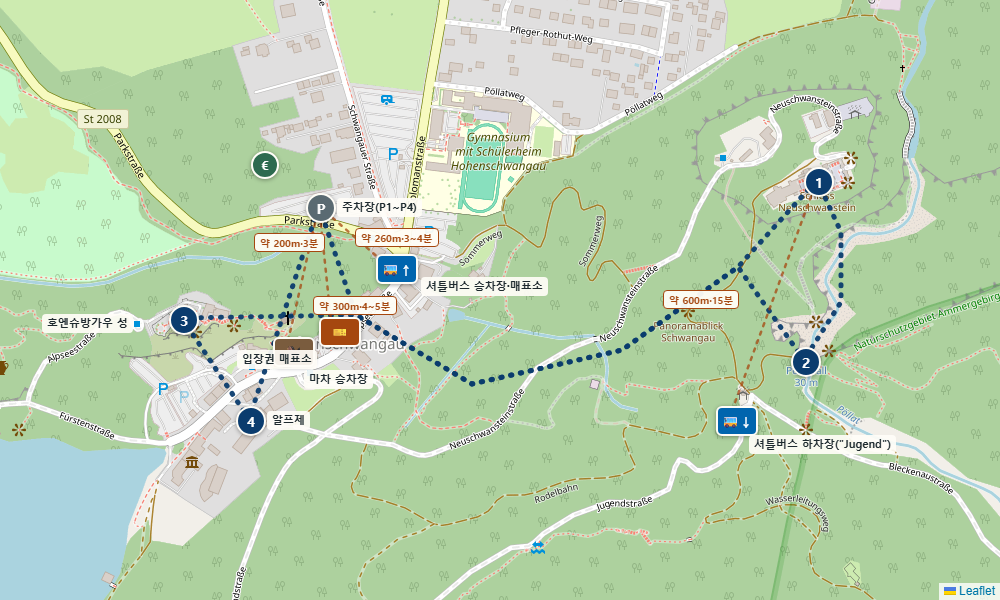
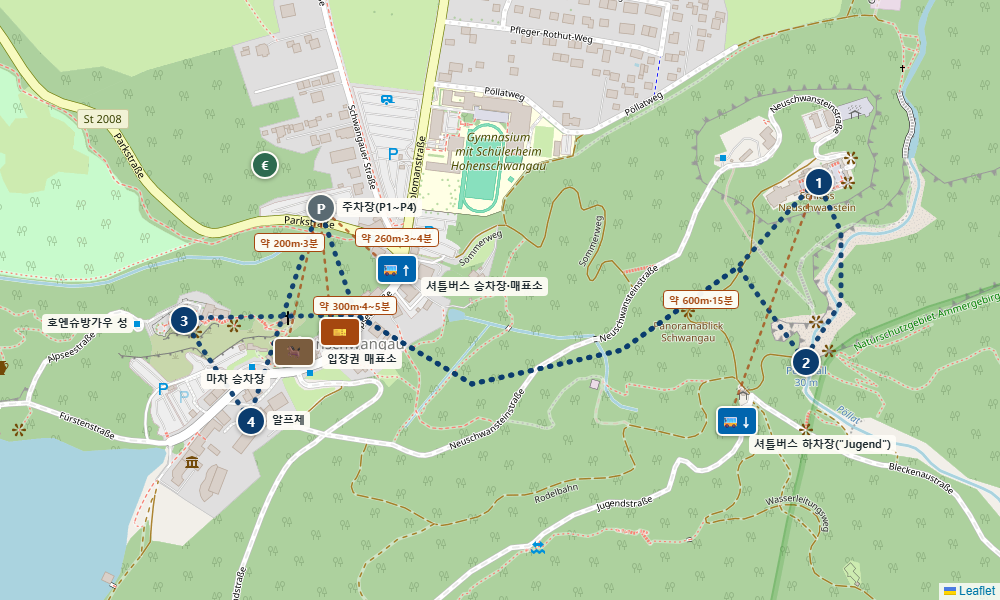
노이슈반슈타인 라벨 재배치 수정, 아스바흐 토요일 투어 하이라이트
- 입장권 매표소·마차 승차장 라벨이 서로 반대 핀 쪽으로 넘어가 있던 것을 수정(각자 자기 박스 바로 아래로)
- 아스바흐 방문자센터 매주 토요일 10시 투어를 방문일(9/26 토)과 일치하는 일정으로 확인, 하이라이트 추가

Changed region(s): [[0.186, 0.57, 0.403, 0.66]]

diff --git a/germany-roadtrip-planner.html b/germany-roadtrip-planner.html
@@ -2358,7 +2358,7 @@ document.addEventListener('DOMContentLoaded', function(){
       <a class="walk-map-link" href="https://www.google.com/maps/dir/?api=1&travelmode=walking&origin=47.5543,10.7360&destination=47.5550,10.7494&waypoints=47.5576,10.7497" target="_blank" rel="noopener">📍 Google 지도로 도보 코스 보기(링크는 편도만 표시, 왕복은 같은 길로 되짚기) · 총 약 4.7km · 도보 약 1시간 31분(오르막 40분+12분, 내리막 약 35분+알프제 4분)</a>
       <div class="route-snapshot">
         <div class="route-snapshot-media">
-          <img src="images/routes/neuschwanstein.png?v=15" alt="노이슈반슈타인 성 도보 코스 지도 스냅샷 — 입장권 매표소·셔틀버스 승하차장·마차 승차장·호엔슈방가우 성·알프제 위치 표시" loading="lazy" width="1000" height="600">
+          <img src="images/routes/neuschwanstein.png?v=16" alt="노이슈반슈타인 성 도보 코스 지도 스냅샷 — 입장권 매표소·셔틀버스 승하차장·마차 승차장·호엔슈방가우 성·알프제 위치 표시" loading="lazy" width="1000" height="600">
         </div>
         <ol class="route-steps">
         <li class="rs-p"><span class="rs-name">주차장(P1~P4)</span></li>
@@ -4427,7 +4427,7 @@ document.addEventListener('DOMContentLoaded', function(){
         <img src="https://commons.wikimedia.org/wiki/Special:FilePath/Asbach_Uralt1713.JPG?width=500" alt="아스바흐 브랜디 병(제품 사진, 방문자센터 실사진은 아님)" loading="lazy">
         <div class="landmark-body">
         <h3>[선택] 아스바흐 방문자센터(Asbach Besucherzentrum)</h3>
-        <p class="landmark-desc">독일 대표 브랜디 브랜드 아스바흐의 증류소 겸 방문자센터. 매주 토요일 10:00 가이드 투어(브랜디 2종+리큐어 1종 시음 포함)는 최소 3일 전 홈페이지 예약이 필요합니다.</p>
+        <p class="landmark-desc">독일 대표 브랜디 브랜드 아스바흐의 증류소 겸 방문자센터. <span style="color:#c0392b;font-weight:800;">매주 토요일 10:00 가이드 투어</span>(브랜디 2종+리큐어 1종 시음 포함, 방문일 9/26도 토요일이라 해당)는 최소 3일 전 홈페이지 예약이 필요합니다.</p>
         <div class="landmark-meta">3–12월 화–토 09:00–17:00 · <span class="landmark-price">방문자센터 무료 입장, 가이드 투어는 유료(가격 홈페이지 확인)</span> · <a href="https://www.asbach.de" target="_blank" rel="noopener">홈페이지</a> · <a href="https://www.google.com/maps/search/?api=1&query=Asbach+Besucherzentrum+Ruedesheim" target="_blank" rel="noopener">지도</a></div>
         <div class="landmark-parking">🚗 P10 Feldtor에서 차량 약 2.7km·6분 — 도보권 아니라 별도 이동 필요</div>
         <p class="walk-map-note" style="font-size:0.78rem;margin:0.3rem 0 0;">🔀 우회 정보: 도보 코스에서 벗어난 위치라 왕복 약 5.4km·12분 추가</p>

diff --git a/index.html b/index.html
@@ -2358,7 +2358,7 @@ document.addEventListener('DOMContentLoaded', function(){
       <a class="walk-map-link" href="https://www.google.com/maps/dir/?api=1&travelmode=walking&origin=47.5543,10.7360&destination=47.5550,10.7494&waypoints=47.5576,10.7497" target="_blank" rel="noopener">📍 Google 지도로 도보 코스 보기(링크는 편도만 표시, 왕복은 같은 길로 되짚기) · 총 약 4.7km · 도보 약 1시간 31분(오르막 40분+12분, 내리막 약 35분+알프제 4분)</a>
       <div class="route-snapshot">
         <div class="route-snapshot-media">
-          <img src="images/routes/neuschwanstein.png?v=15" alt="노이슈반슈타인 성 도보 코스 지도 스냅샷 — 입장권 매표소·셔틀버스 승하차장·마차 승차장·호엔슈방가우 성·알프제 위치 표시" loading="lazy" width="1000" height="600">
+          <img src="images/routes/neuschwanstein.png?v=16" alt="노이슈반슈타인 성 도보 코스 지도 스냅샷 — 입장권 매표소·셔틀버스 승하차장·마차 승차장·호엔슈방가우 성·알프제 위치 표시" loading="lazy" width="1000" height="600">
         </div>
         <ol class="route-steps">
         <li class="rs-p"><span class="rs-name">주차장(P1~P4)</span></li>
@@ -4427,7 +4427,7 @@ document.addEventListener('DOMContentLoaded', function(){
         <img src="https://commons.wikimedia.org/wiki/Special:FilePath/Asbach_Uralt1713.JPG?width=500" alt="아스바흐 브랜디 병(제품 사진, 방문자센터 실사진은 아님)" loading="lazy">
         <div class="landmark-body">
         <h3>[선택] 아스바흐 방문자센터(Asbach Besucherzentrum)</h3>
-        <p class="landmark-desc">독일 대표 브랜디 브랜드 아스바흐의 증류소 겸 방문자센터. 매주 토요일 10:00 가이드 투어(브랜디 2종+리큐어 1종 시음 포함)는 최소 3일 전 홈페이지 예약이 필요합니다.</p>
+        <p class="landmark-desc">독일 대표 브랜디 브랜드 아스바흐의 증류소 겸 방문자센터. <span style="color:#c0392b;font-weight:800;">매주 토요일 10:00 가이드 투어</span>(브랜디 2종+리큐어 1종 시음 포함, 방문일 9/26도 토요일이라 해당)는 최소 3일 전 홈페이지 예약이 필요합니다.</p>
         <div class="landmark-meta">3–12월 화–토 09:00–17:00 · <span class="landmark-price">방문자센터 무료 입장, 가이드 투어는 유료(가격 홈페이지 확인)</span> · <a href="https://www.asbach.de" target="_blank" rel="noopener">홈페이지</a> · <a href="https://www.google.com/maps/search/?api=1&query=Asbach+Besucherzentrum+Ruedesheim" target="_blank" rel="noopener">지도</a></div>
         <div class="landmark-parking">🚗 P10 Feldtor에서 차량 약 2.7km·6분 — 도보권 아니라 별도 이동 필요</div>
         <p class="walk-map-note" style="font-size:0.78rem;margin:0.3rem 0 0;">🔀 우회 정보: 도보 코스에서 벗어난 위치라 왕복 약 5.4km·12분 추가</p>
